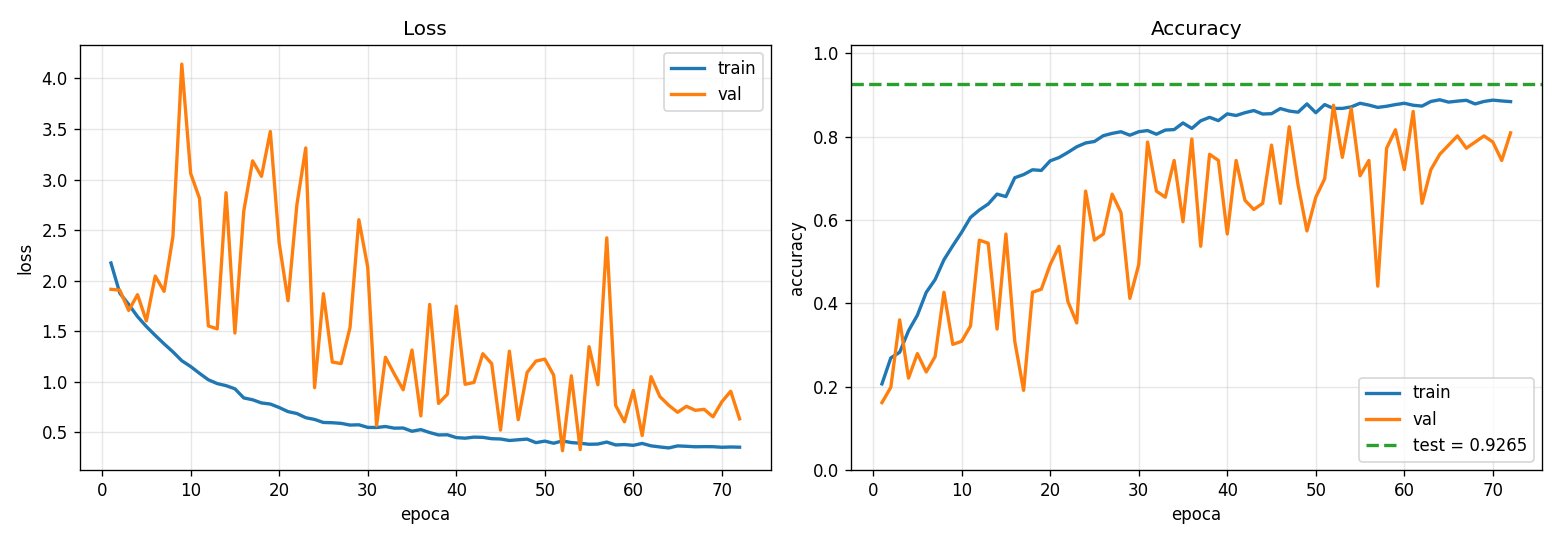
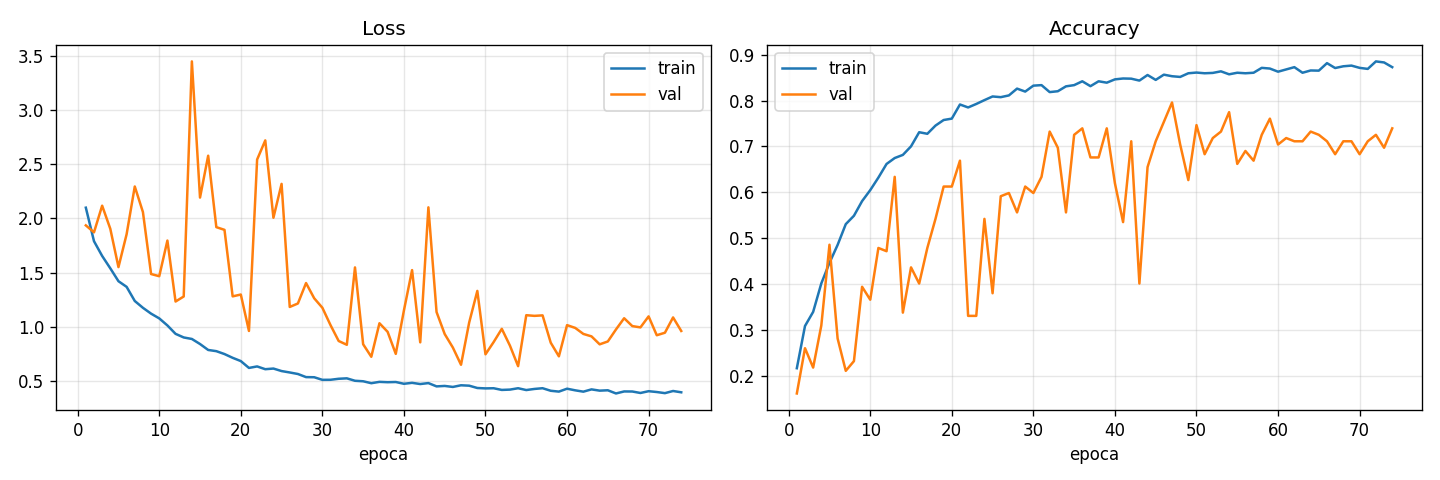
Notebook actualizados con ultima data + docs

diff --git a/docs/wiring.md b/docs/wiring.md
@@ -1,0 +1,114 @@
+# Conexiones del Panel de Domótica
+
+Proyecto Final de Inteligencia Artificial - Universidad Rafael Landívar - Primer Semestre 2026.
+
+Modalidad C: Panel de domótica controlado por voz. Configuración B: Arduino UNO + laptop.
+
+## Arduino UNO
+
+| Pin Arduino | Va a | Función |
+|---|---|---|
+| Pin digital 7 | IN1 del módulo de relés | Señal de control relé 1 (luz principal) |
+| Pin digital 8 | IN2 del módulo de relés | Señal de control relé 2 (ventilador) |
+| Pin digital 9 | Pata + del buzzer | Señal de activación del buzzer (cerradura) |
+| Pin digital 12 | IN3 del módulo de relés | Señal de control relé 3 (panel) |
+| Pin digital 13 | IN4 del módulo de relés | Señal de control relé 4 (reserva) |
+| Pin 5V | VCC del módulo de relés | Alimentación lógica del módulo |
+| Pin GND | GND del módulo de relés | Tierra del módulo |
+| Pin GND | Pata − del buzzer | Tierra del buzzer (directo, no por protoboard) |
+| Pin GND | Riel − de la protoboard | Puente de tierra común con el resto del sistema |
+| Puerto USB | Laptop | Comunicación serial y alimentación del Arduino |
+
+## Fuente externa 12V
+
+| Origen | Destino |
+|---|---|
+| Plug barrel macho de la fuente | Adaptador plug a bornera |
+| Tornillo + del adaptador | IN+ del LM2596 y Riel + inferior de la protoboard (dos cables al mismo tornillo) |
+| Tornillo − del adaptador | IN− del LM2596 y Riel − de la protoboard (dos cables al mismo tornillo) |
+
+## LM2596 con display
+
+| Pin LM2596 | Va a | Voltaje |
+|---|---|---|
+| IN+ | Tornillo + del adaptador plug a bornera | 12V de entrada |
+| IN− | Tornillo − del adaptador plug a bornera | GND |
+| OUT+ | Riel + superior de la protoboard | 5V calibrado |
+| OUT− | Riel − de la protoboard | GND |
+
+Calibrado a 5.1V mediante el tornillo dorado de ajuste.
+
+## Protoboard
+
+| Riel | Voltaje | Recibe de | Distribuye a |
+|---|---|---|---|
+| Riel + SUPERIOR | 5V | OUT+ del LM2596 | COM del relé 1, COM del relé 3 |
+| Riel + INFERIOR | 12V | + del adaptador plug a bornera | COM del relé 2 |
+| Riel − (superior e inferior unidos) | GND | OUT− del LM2596, − del adaptador, GND del Arduino | Cátodos de LEDs, − del ventilador |
+
+Los dos rieles − están unidos entre sí con un cable puente.
+
+## Relé 1 - LED 1 (luz principal)
+
+| Terminal del relé 1 | Va a |
+|---|---|
+| NC (tornillo izquierdo) | Sin conectar |
+| COM (tornillo del medio) | Riel + superior (5V) |
+| NO (tornillo derecho) | Una pata de la resistencia 220Ω |
+| Otra pata de la resistencia | Ánodo (pata larga) del LED 1 |
+| Cátodo (pata corta) del LED 1 | Riel − |
+
+## Relé 2 - Ventilador 12V
+
+| Terminal del relé 2 | Va a |
+|---|---|
+| NC (tornillo izquierdo) | Sin conectar |
+| COM (tornillo del medio) | Riel + inferior (12V) |
+| NO (tornillo derecho) | Cable rojo del ventilador |
+| Cable negro del ventilador | Riel − |
+| Tercer cable del ventilador (si existe) | Aislado con cinta, sin conectar |
+
+## Relé 3 - LED 2 (panel)
+
+| Terminal del relé 3 | Va a |
+|---|---|
+| NC (tornillo izquierdo) | Sin conectar |
+| COM (tornillo del medio) | Riel + superior (5V) |
+| NO (tornillo derecho) | Una pata de la segunda resistencia 220Ω |
+| Otra pata de la resistencia | Ánodo (pata larga) del LED 2 |
+| Cátodo (pata corta) del LED 2 | Riel − |
+
+## Relé 4 - Reserva
+
+Sin conectar en el lado de potencia. Disponible para uso futuro.
+
+## Buzzer (cerradura simulada)
+
+| Pata del buzzer | Va a |
+|---|---|
+| Pata + | Pin digital 9 del Arduino |
+| Pata − | Pin GND del Arduino (directo, no por protoboard) |
+
+Importante: el GND del buzzer va directamente al pin GND del Arduino y no al riel − de la protoboard, debido a inestabilidad detectada en el riel.
+
+## Mapeo de comandos del software
+
+| Comando serial | Pin afectado | Acción física |
+|---|---|---|
+| LUZ | Pin 7 (relé 1) | Toggle LED 1 |
+| PANEL | Pin 12 (relé 3) | Toggle LED 2 |
+| VENTILADOR | Pin 8 (relé 2) | Toggle ventilador |
+| CERRADURA | Pin 9 (buzzer) | Beep abrir (2 cortos) o cerrar (1 largo) |
+| ENCIENDE | Pines 7, 8, 12, 9 | Activa todos los actuadores |
+| APAGA | Pines 7, 8, 12, 9 | Desactiva todos los actuadores |
+| STATUS | Ninguno | Reporta estado actual por serial |
+| PING | Ninguno | Responde "PONG" |
+
+Los comandos individuales (LUZ, PANEL, VENTILADOR, CERRADURA) operan como toggle: alternan el estado del actuador entre encendido y apagado en cada activación.
+
+## Notas del módulo de relés
+
+- Modelo: SRD-05VDC-SL-C, 4 canales.
+- Lógica: activo en bajo (HIGH apaga el relé, LOW lo activa).
+- Cada relé tiene tres terminales de tornillo en el lado de potencia: NC (izquierdo), COM (medio), NO (derecho).
+- El módulo se alimenta con 5V del Arduino para la parte lógica.